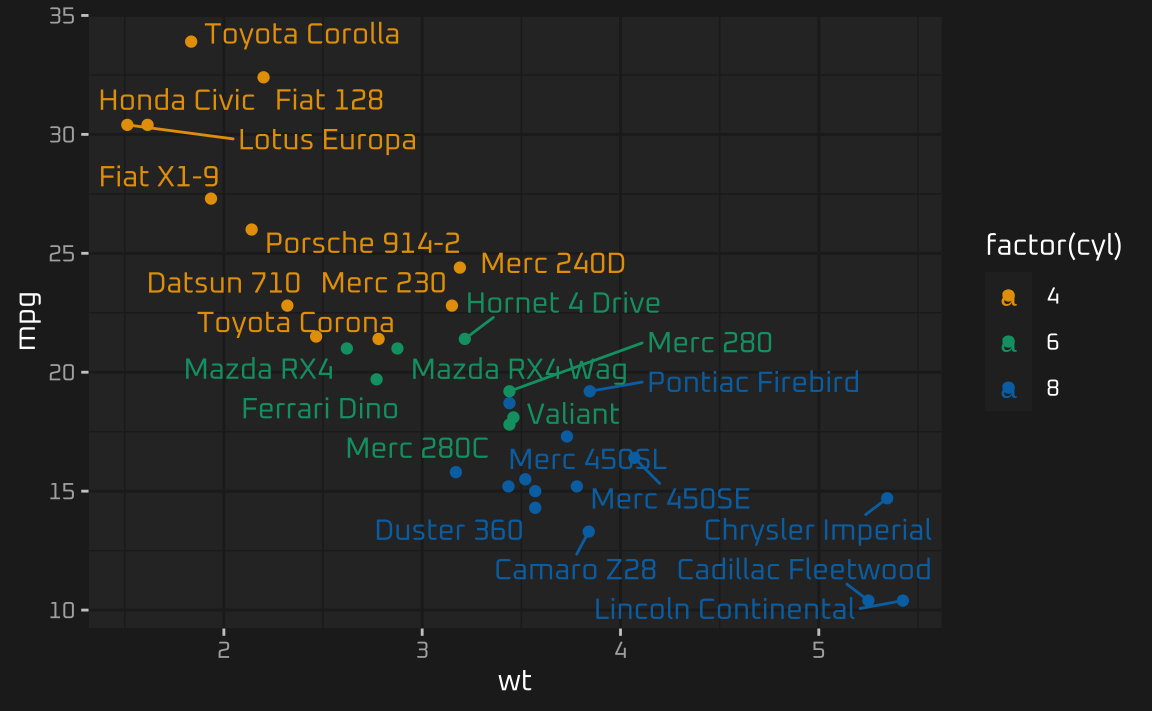
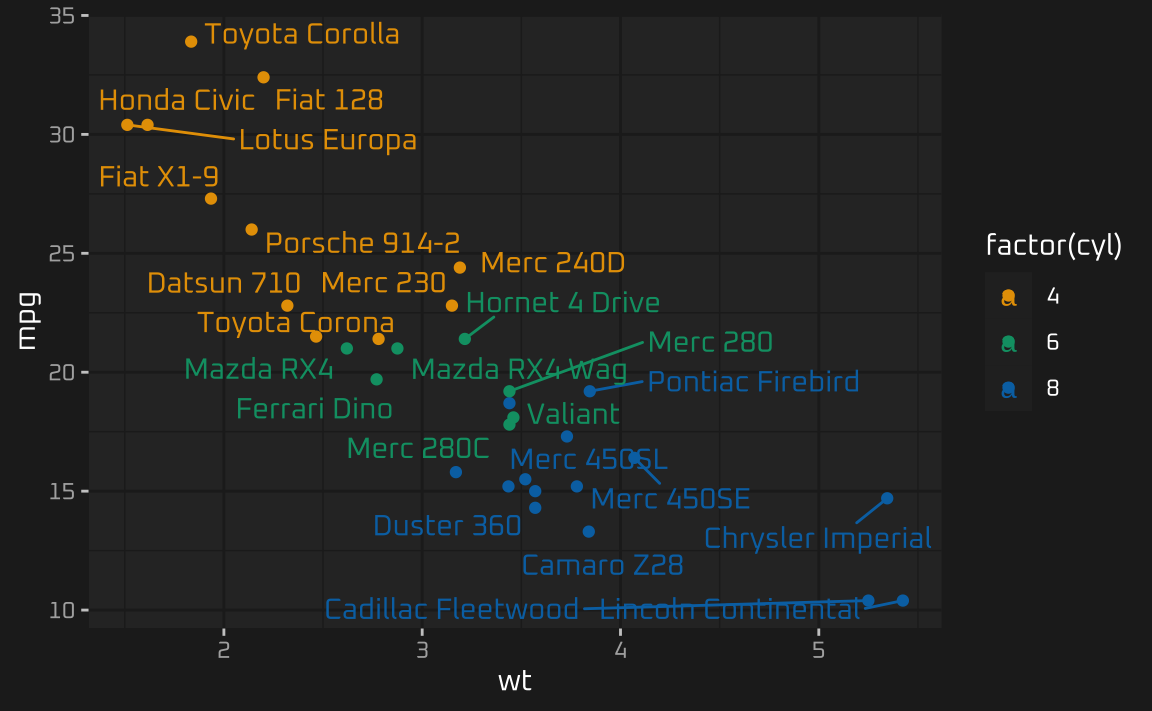
Add a note about installing showtext/ragg as well

diff --git a/README.md b/README.md
@@ -45,6 +45,15 @@ requires **rmarkdown** 2.7 or higher:
 install.packages("rmarkdown")
 ```
 
+Using themes with [custom
+fonts](https://rstudio.github.io/thematic/articles/fonts.html) works
+best if you have `{showtext}` and/or `{ragg}` installed.
+
+``` r
+install.packages("showtext")
+install.packages("ragg")
+```
+
 ## Overview
 
 **thematic**’s [auto
